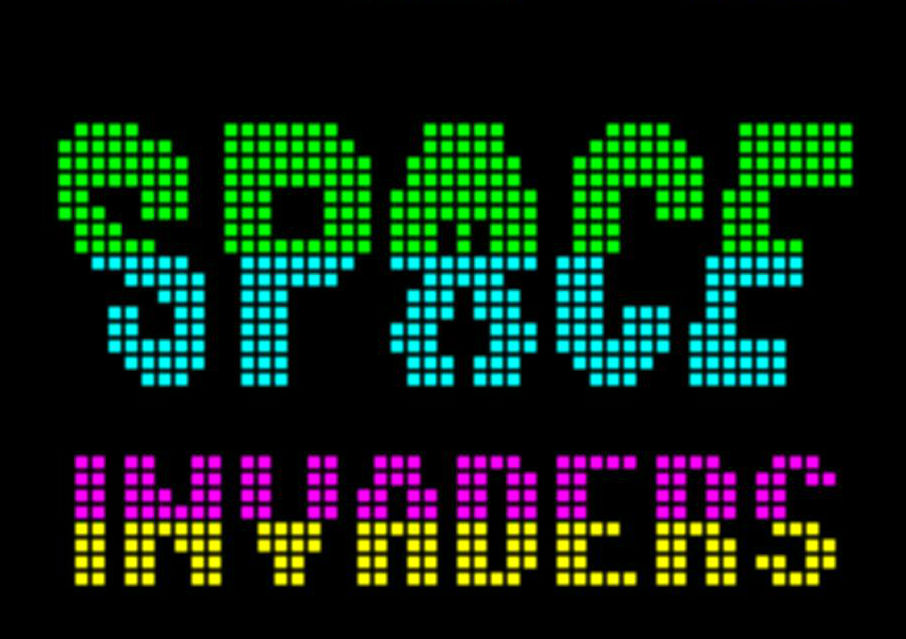
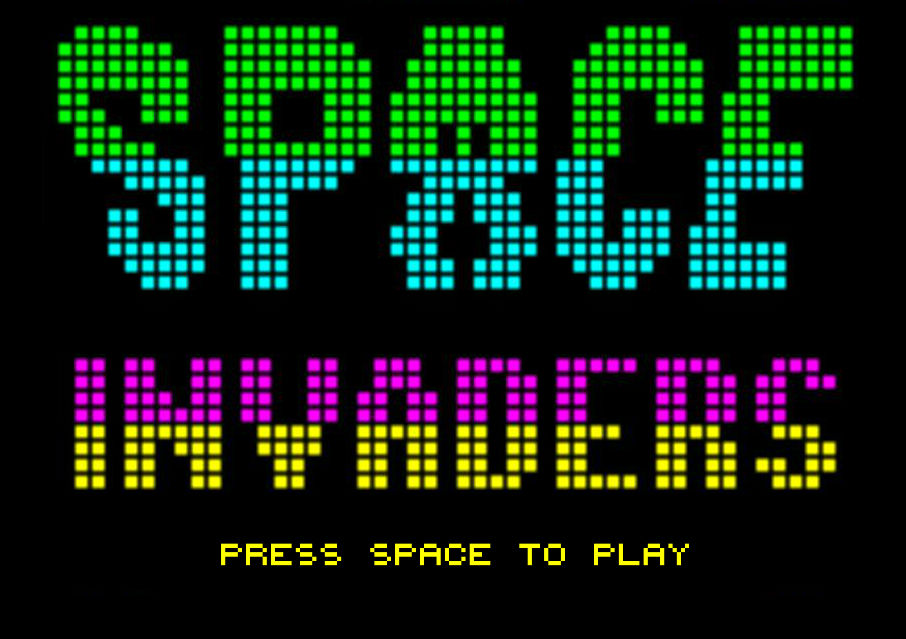
chnaged background to add instructions kinda

diff --git a/client/index.html b/client/index.html
@@ -22,11 +22,11 @@
 // Load them google fonts before starting...!
 WebFontConfig = {
 google: {
-families: [ 'Snippet', 'Arvo:700italic', 'Podkova:700' ]
+families: [ 'Snippet', 'Arvo:700italic', 'Podkova:700', 'VT323' ]
 },
 active: function() {
 // do something
-//init();
+init();
 }
 };
 (function() {
@@ -39,9 +39,6 @@ var s = document.getElementsByTagName('script')[0];
 s.parentNode.insertBefore(wf, s);
 })();
 
-function init()
-{// create some white text using the Snippet webfont
-}
 
 
 
@@ -79,9 +76,14 @@ function init()
 	// use callback
 	loader.onComplete = onSpritesLoaded;
 	
-	//begin load
-	loader.load();
-	
+	function init()
+	{// create some white text using the Snippet webfont
+
+		//begin load
+		loader.load();
+	}
+
+
 	var entities = {};
 	var player_scores = {}; //keep a track of all the players' scores
 	var socket_id;
@@ -93,7 +95,7 @@ function init()
 		socket_id = id;
 		
 		
-		var text = new PIXI.Text("Score: 0", { font: "35px Snippet", fill: "white", align: "left" });
+		var text = new PIXI.Text("Score: 0", { font: "40px VT323", fill: "yellow", align: "left" });
 		text.position.x = 100;
 		text.position.y = 20;
 		stage.addChild(text);
@@ -172,7 +174,7 @@ function init()
 	
 	function onSpritesLoaded(){
 		start_screen.position.x = (screen_width - 906 ) / 2;
-		//start_screen.position.y = (screen_height - 639 ) / 2;
+		start_screen.position.y = (screen_height - 639 ) / 2;
 		
 		stage.addChild(start_screen);
 		
